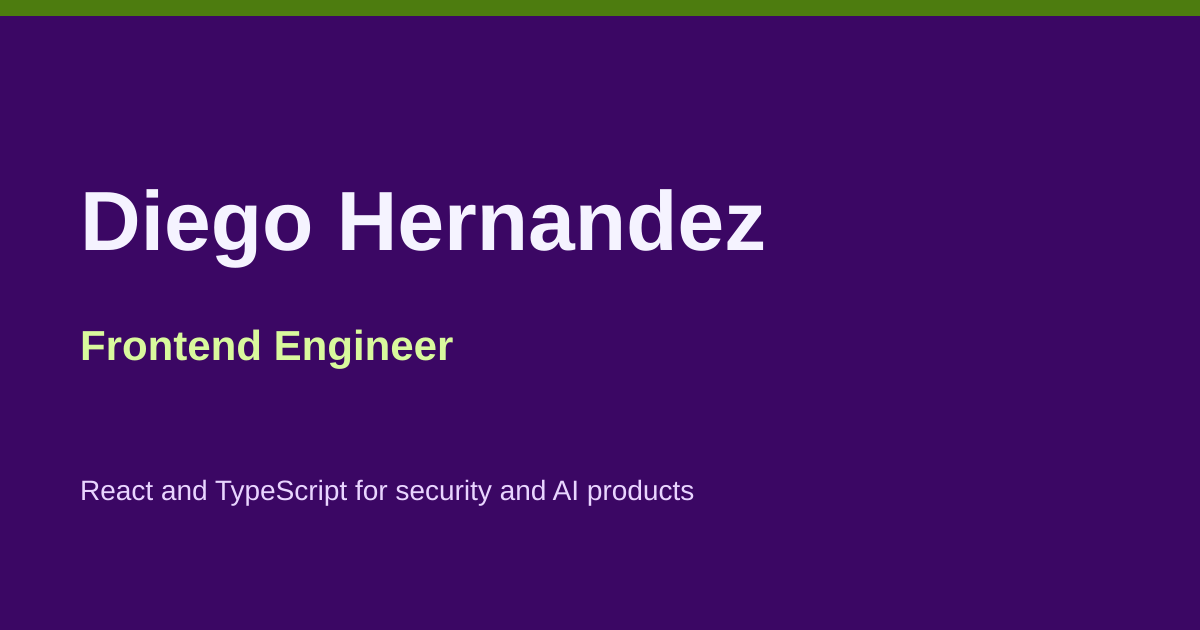
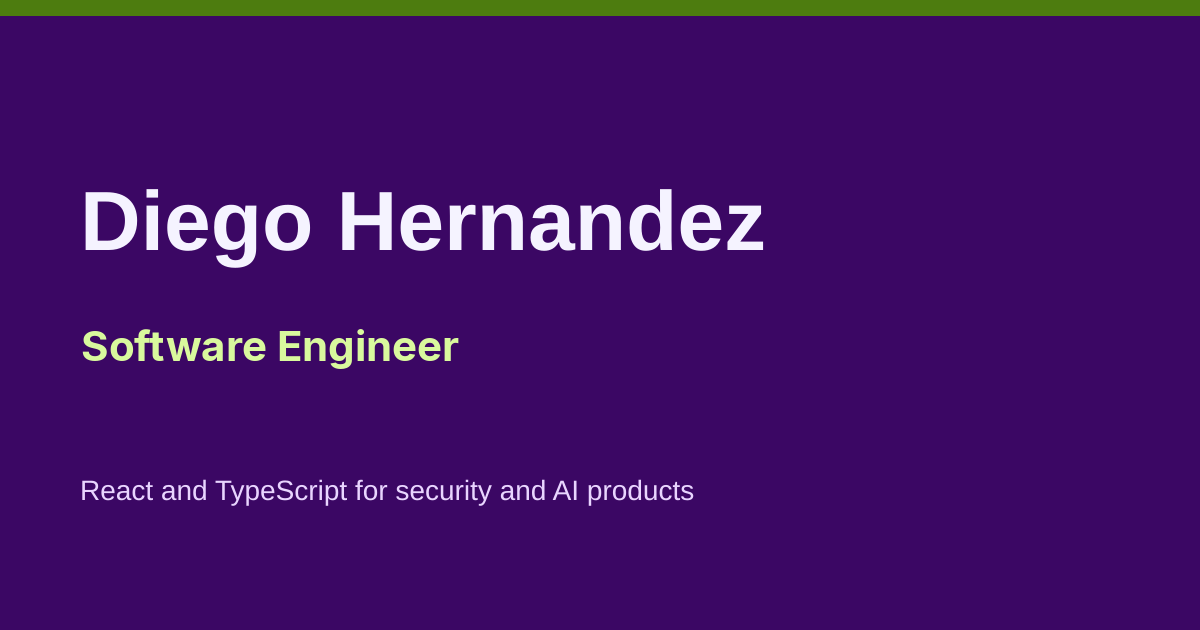
Use Software Engineer as Diego's professional title (#10)
* Use Software Engineer as Diego's professional title

Replace Frontend Engineer in tab titles, meta tags, feeds, structured data, the manifest, and the social image. Leave the experience list and blog posts unchanged.

* Drop the new llms.txt file and Person JSON-LD

Keep the Software Engineer title, description, social tags, feeds, manifest name, and social image. The manifest was already unlinked, so the new manifest link and icon-path edits are reverted.

---------

Changed region(s): [[0.0617, 0.5127, 0.4008, 0.573]]

diff --git a/src/pages/blog/rss.xml.js b/src/pages/blog/rss.xml.js
@@ -1,13 +1,13 @@
 import rss from "@astrojs/rss";
 import { getCollection } from "astro:content";
-import { SITE_TITLE, SITE_DESCRIPTION } from "../../consts";
+import { SITE_TITLE, SITE_ROLE, SITE_DESCRIPTION } from "../../consts";
 
 export async function GET(context) {
   const posts = (await getCollection("blog")).sort(
     (a, b) => b.data.pubDate.valueOf() - a.data.pubDate.valueOf(),
   );
   return rss({
-    title: SITE_TITLE,
+    title: `${SITE_TITLE} | ${SITE_ROLE}`,
     description: SITE_DESCRIPTION,
     site: context.site,
     items: posts.map((post) => ({

diff --git a/src/pages/rss.xml.js b/src/pages/rss.xml.js
@@ -1,13 +1,13 @@
 import rss from "@astrojs/rss";
 import { getCollection } from "astro:content";
-import { SITE_TITLE, SITE_DESCRIPTION } from "../consts";
+import { SITE_TITLE, SITE_ROLE, SITE_DESCRIPTION } from "../consts";
 
 export async function GET(context) {
   const posts = (await getCollection("blog")).sort(
     (a, b) => b.data.pubDate.valueOf() - a.data.pubDate.valueOf(),
   );
   return rss({
-    title: SITE_TITLE,
+    title: `${SITE_TITLE} | ${SITE_ROLE}`,
     description: SITE_DESCRIPTION,
     site: context.site,
     items: posts.map((post) => ({

diff --git a/src/consts.ts b/src/consts.ts
@@ -1,3 +1,3 @@
 export const SITE_TITLE = "Diego Hernandez";
-export const SITE_DESCRIPTION =
-  "Diego Hernandez, frontend engineer building React and TypeScript interfaces for security and AI products.";
+export const SITE_ROLE = "Software Engineer";
+export const SITE_DESCRIPTION = `${SITE_TITLE}, ${SITE_ROLE} building React and TypeScript interfaces for security and AI products.`;
